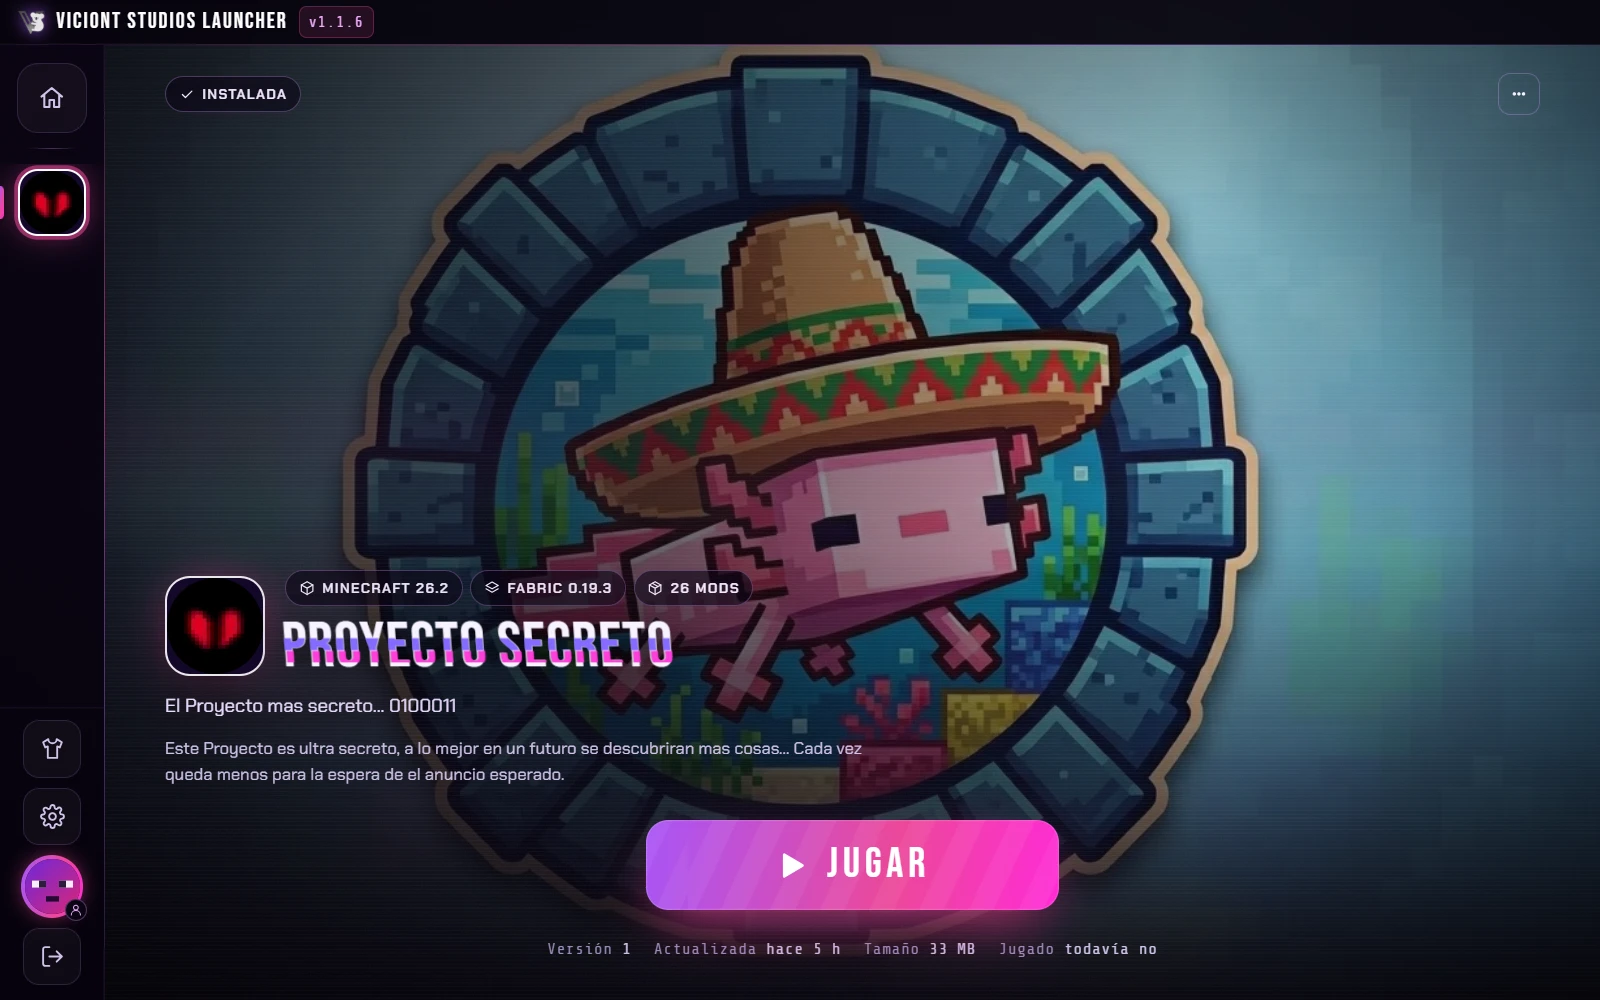
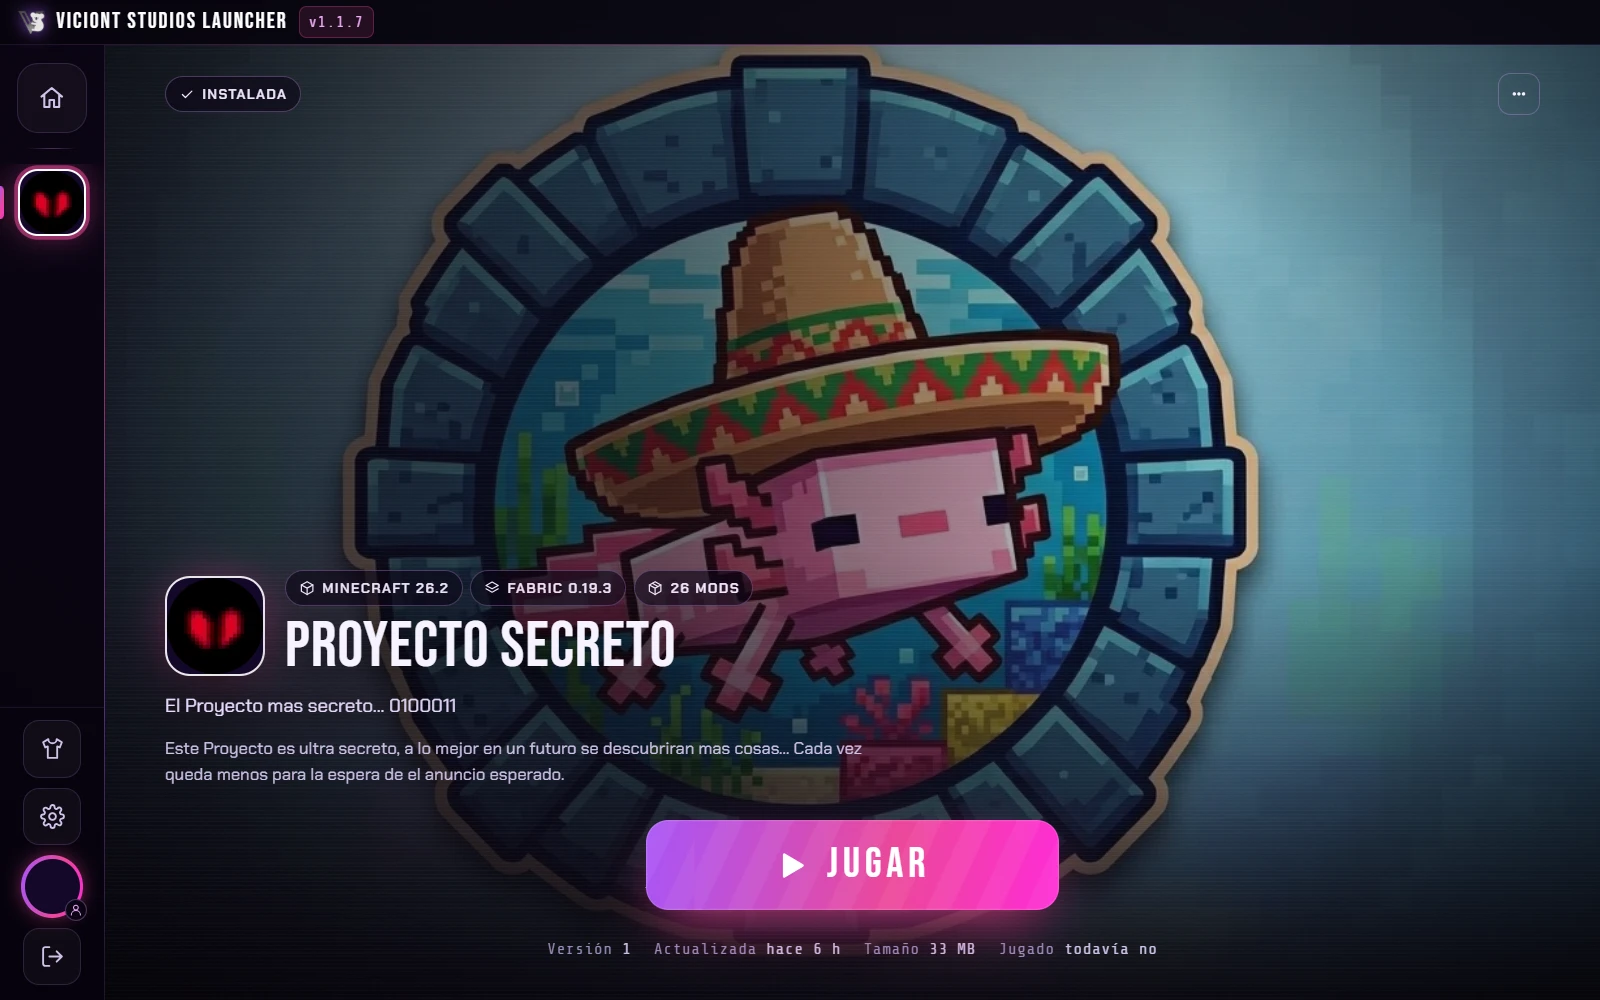
Viciont Studios Launcher 1.1.7
- Inicio: el pie se funde con el fondo con un degradado suave, sin la línea que lo separaba.
- Capturas nuevas.

Changed region(s): [[0.1562, 0.62, 0.4375, 0.682], [0.0, 0.837, 0.0625, 0.93]]

diff --git a/src/renderer/css/app.css b/src/renderer/css/app.css
@@ -241,11 +241,11 @@
 
 .home__footer {
   position: sticky; bottom: 0; z-index: 3; margin-top: auto;
-  display: flex; align-items: center; justify-content: space-between; gap: 16px; flex-wrap: wrap; padding: 14px 44px 16px;
-  border-top: 1px solid rgba(196, 140, 255, 0.14); background: rgba(7, 3, 13, 0.95);
-  color: var(--muted); font-size: 0.82rem;
+  display: flex; align-items: center; justify-content: space-between; gap: 16px; flex-wrap: wrap; padding: 46px 44px 16px;
+  background: linear-gradient(180deg, rgba(7, 3, 13, 0) 0%, rgba(7, 3, 13, 0.3) 14%, rgba(7, 3, 13, 0.62) 30%, rgba(7, 3, 13, 0.86) 46%, rgba(7, 3, 13, 0.95) 62%, rgba(7, 3, 13, 0.98) 100%);
+  color: var(--muted); font-size: 0.82rem; pointer-events: none;
 }
-.home__footer::before { content: ''; position: absolute; left: 0; right: 0; bottom: 100%; height: 26px; background: linear-gradient(0deg, rgba(7, 3, 13, 0.55), transparent); pointer-events: none; }
+.home__footer > * { pointer-events: auto; }
 .home__footer b { color: #f0abfc; font-weight: 600; }
 .socials { display: flex; gap: 8px; }
 .social-btn { width: 40px; height: 40px; display: grid; place-items: center; border-radius: 11px; border: 1px solid var(--line); background: rgba(255, 255, 255, 0.035); color: var(--text-2); transition: 0.25s var(--ease); }
